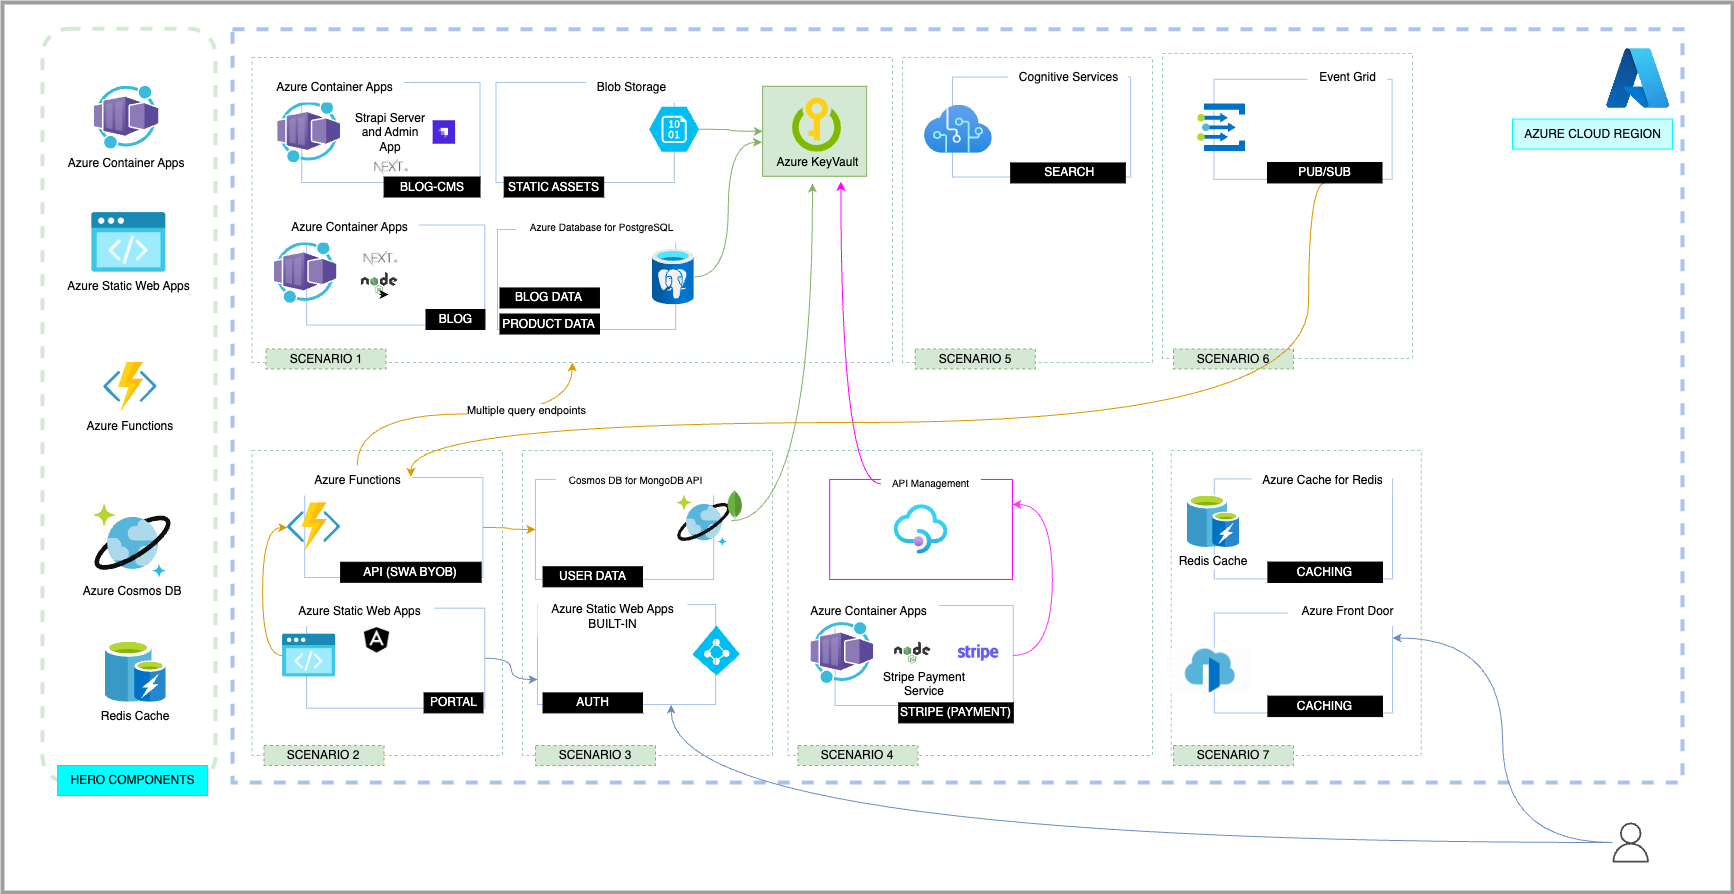
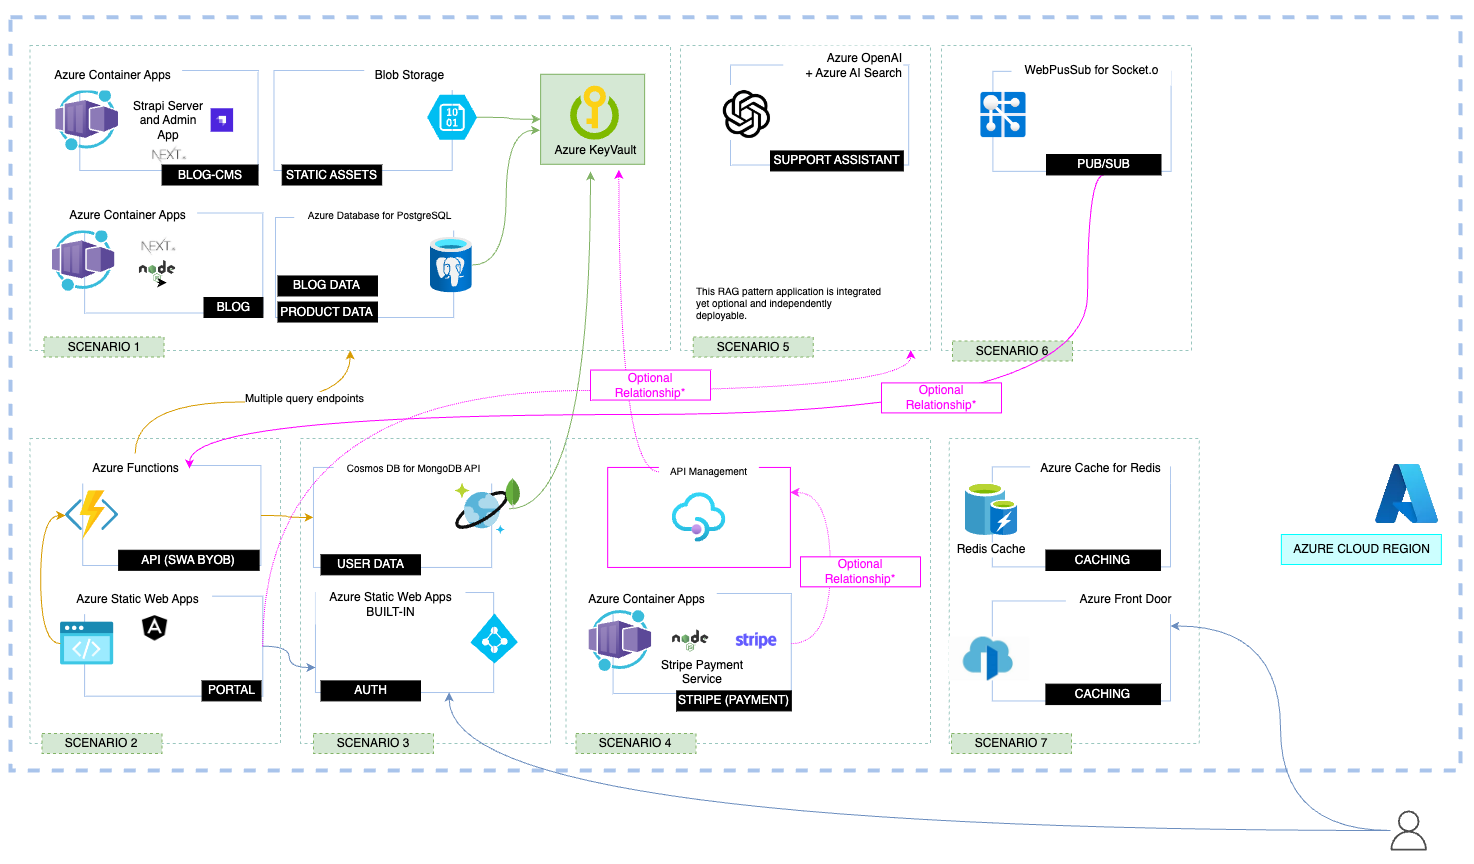
docs: website update diagrams

Changed region(s): [[0.0, 0.0, 1.0, 1.0], [0.6554, 0.5312, 0.8114, 0.7188], [0.8114, 0.7188, 0.8426, 0.75]]

diff --git a/packages/docs/website/docs/02-develop/scenario-1/0-intro.md b/packages/docs/website/docs/02-develop/scenario-1/0-intro.md
@@ -6,7 +6,7 @@ description: Kickoff implementation with Scenario 1 - Headless CMS and Blog App
 
 ## 1. Architecture
 
-![Scenario Architecture Diagram](./../../../static/docs/png/contoso-architecture.png)
+![Scenario Architecture Diagram](./../../../static/docs/png/contoso-scenario-1.png)
 
 This is the most important scenario of the application, providing data authoring and storing capabilities for both vertical micro-frontend applications, that compose it. We enable this capabilities, via the implementation of a Headless CMS, powered by Strapi.
 
